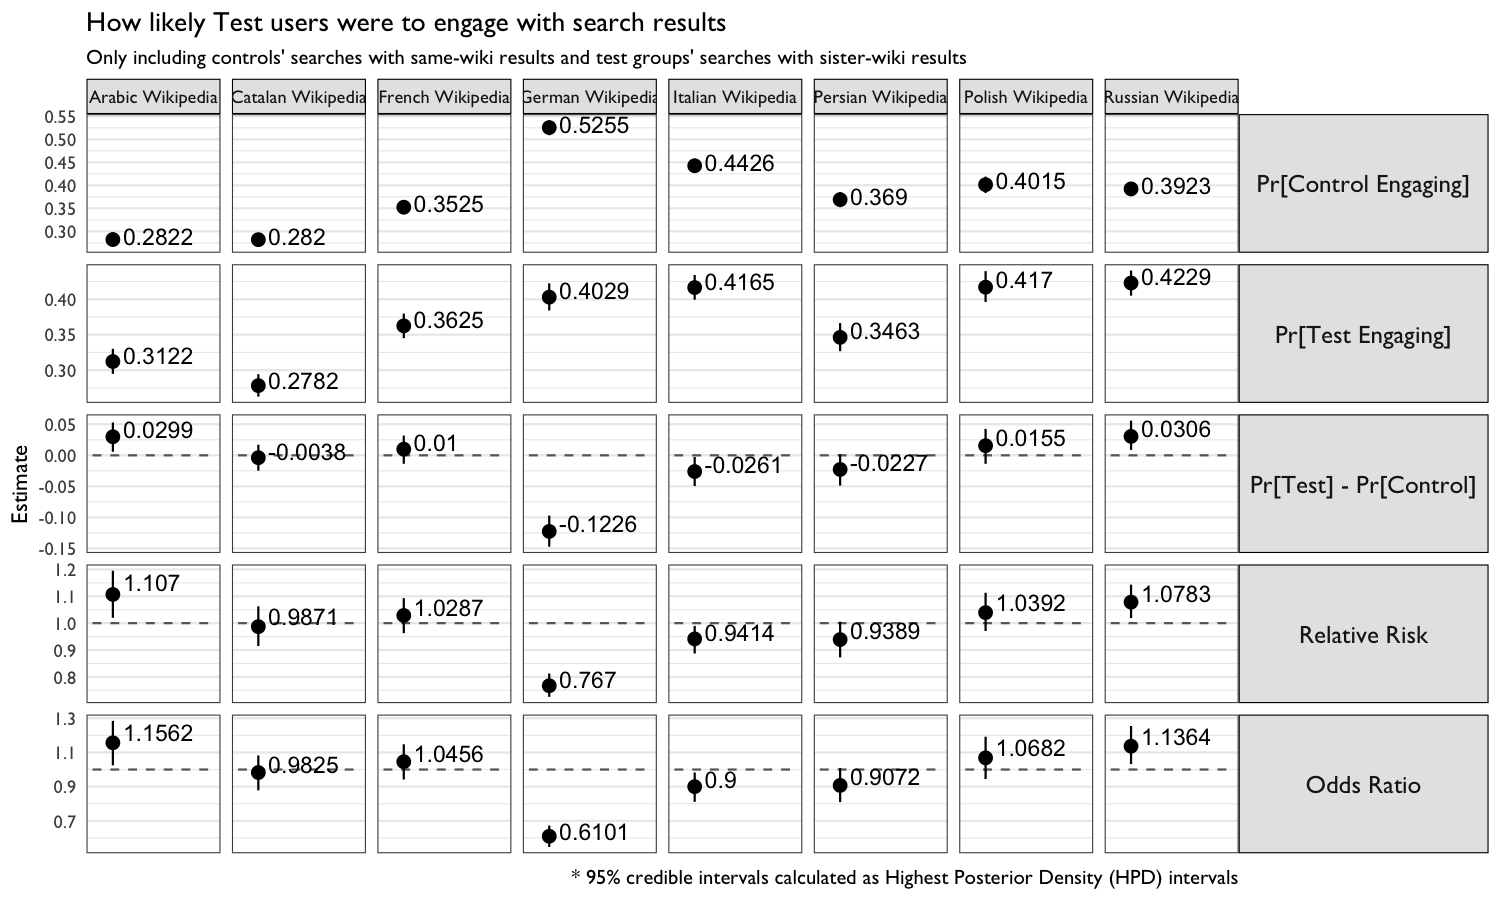
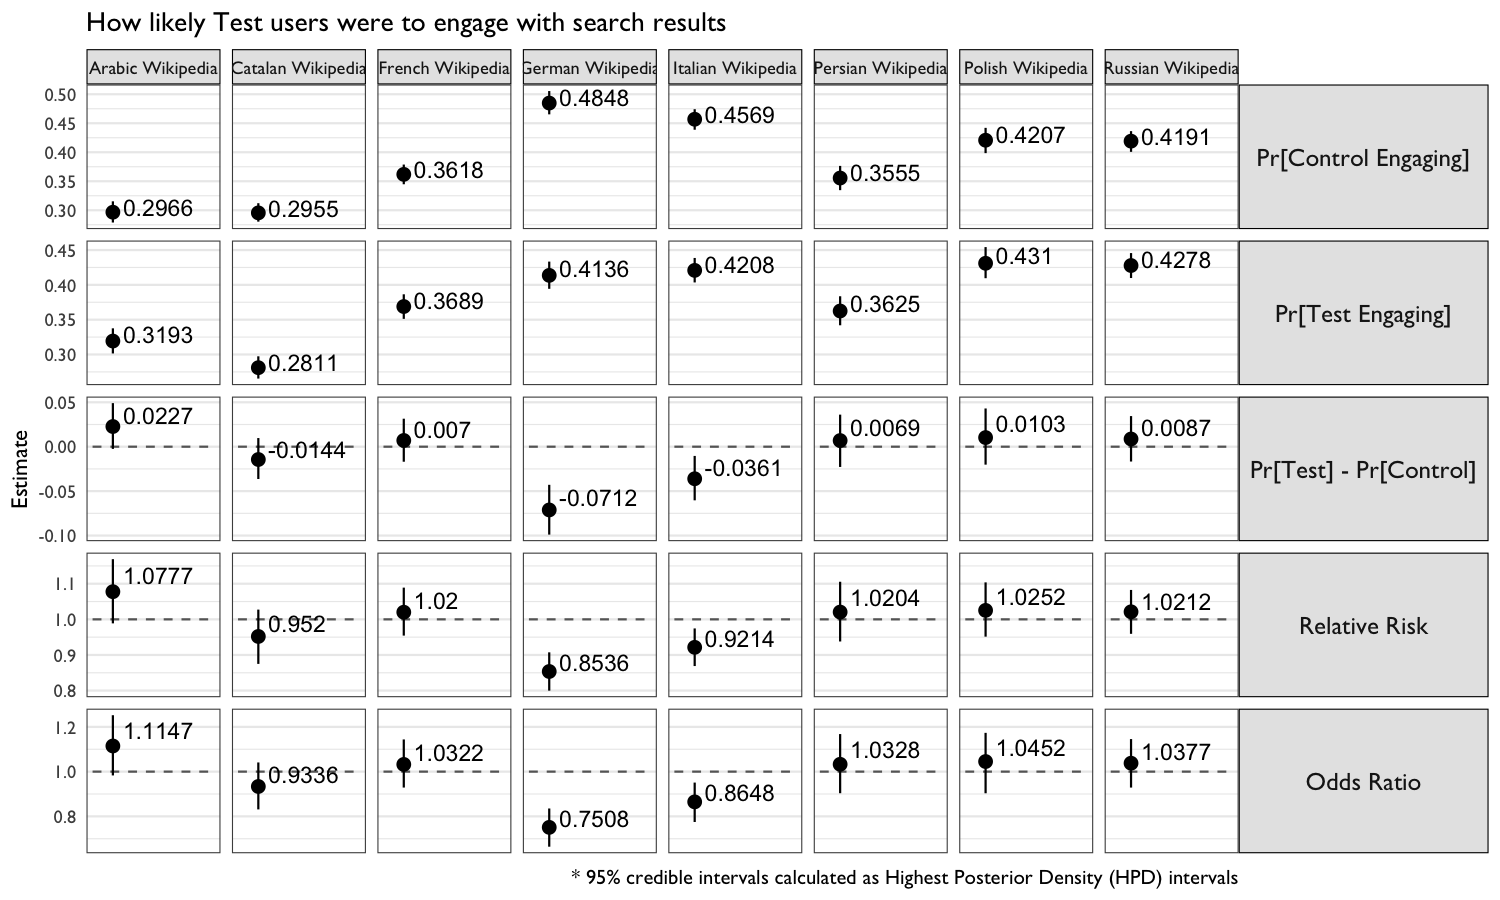
Fix hypothesis 1

diff --git a/docs/index.html b/docs/index.html
@@ -585,7 +585,7 @@ x &lt;-<span class="st"> </span><span class="kw">plot</span>(visitor_flow, <span
 </div>
 <div id="analysis" class="section level2">
 <h2>Analysis</h2>
-<p>We employed the <em>binom</em> <span class="citation">(Dorai-Raj <a href="#ref-R-binom">2014</a>)</span>, <em>LearnBayes</em> <span class="citation">(Albert <a href="#ref-R-learnbayes">2014</a>)</span>, <em>conting</em> <span class="citation">(Overstall <a href="#ref-R-conting">2016</a>)</span>, and internally-developed <em>BCDA</em> <span class="citation">(Popov, n.d.)</span> packages for Bayesian statistical analysis and confidence intervals in Figures 9, 10, and 8.</p>
+<p>We employed the <em>binom</em> <span class="citation">(Dorai-Raj <a href="#ref-R-binom">2014</a>)</span>, <em>LearnBayes</em> <span class="citation">(Albert <a href="#ref-R-learnbayes">2014</a>)</span>, <em>conting</em> <span class="citation">(Overstall <a href="#ref-R-conting">2016</a>)</span>, and internally-developed <em>BCDA</em> <span class="citation">(Popov, n.d.)</span> packages for Bayesian statistical analysis and confidence intervals in Figures 8, 9, and 7.</p>
 </div>
 </div>
 <div id="results" class="section level1">
@@ -830,7 +830,7 @@ All 2 groups
 </table>
 <div id="zero-results-rate-zrr" class="section level2">
 <h2>Zero Results Rate (ZRR)</h2>
-<p>The zero results rate (ZRR) – proportion of searches yielding zero results – is one of Discovery’s Search Team’s key performance indicators (KPIs), and we are always interested in lowering that number (but not at the expense of results’ relevance). While we were primarily interested in searchers’ engagement with the search result for this test, we included this section as a consistency check – that the zero results rate is lower when a cross-wiki search is performed (see Figure 9).</p>
+<p>The zero results rate (ZRR) – proportion of searches yielding zero results – is one of Discovery’s Search Team’s key performance indicators (KPIs), and we are always interested in lowering that number (but not at the expense of results’ relevance). While we were primarily interested in searchers’ engagement with the search result for this test, we included this section as a consistency check – that the zero results rate is lower when a cross-wiki search is performed (see Figure 8).</p>
 <div class="sourceCode"><pre class="sourceCode r"><code class="sourceCode r">zrr &lt;-<span class="st"> </span>searches <span class="op">%&gt;%</span>
 <span class="st">  </span><span class="kw">group_by</span>(wiki, group, serp_id) <span class="op">%&gt;%</span>
 <span class="st">  </span><span class="kw">summarize</span>(
@@ -881,23 +881,13 @@ All 2 groups
 <div class="sourceCode"><pre class="sourceCode r"><code class="sourceCode r">searches_H1 &lt;-<span class="st"> </span>searches <span class="op">%&gt;%</span>
 <span class="st">  </span><span class="kw">group_by</span>(serp_id) <span class="op">%&gt;%</span>
 <span class="st">  </span><span class="kw">keep_where</span>(
-    (group <span class="op">==</span><span class="st"> &quot;Control&quot;</span> <span class="op">&amp;</span><span class="st"> `</span><span class="dt">cirrus log: some same-wiki results</span><span class="st">`</span>) <span class="op">|</span>
-<span class="st">      </span>(group <span class="op">==</span><span class="st"> &quot;Test&quot;</span> <span class="op">&amp;</span><span class="st"> `</span><span class="dt">cirrus log: some sister-wiki results</span><span class="st">`</span>)
-  ) <span class="op">%&gt;%</span>
-<span class="st">  </span><span class="kw">select</span>(serp_id) <span class="op">%&gt;%</span>
-<span class="st">  </span>dplyr<span class="op">::</span><span class="kw">left_join</span>(searches, <span class="dt">by =</span> <span class="st">&quot;serp_id&quot;</span>) <span class="op">%&gt;%</span>
-<span class="st">  </span><span class="kw">group_by</span>(wiki, group, serp_id) <span class="op">%&gt;%</span>
-<span class="st">  </span><span class="kw">summarize</span>(<span class="dt">clickthrough =</span> <span class="kw">any</span>(event <span class="op">!=</span><span class="st"> &quot;SERP&quot;</span>)) <span class="op">%&gt;%</span>
-<span class="st">  </span><span class="kw">summarize</span>(<span class="dt">searches =</span> <span class="kw">n</span>(), <span class="dt">clickthroughs =</span> <span class="kw">sum</span>(clickthrough)) <span class="op">%&gt;%</span>
-<span class="st">  </span><span class="kw">group_by</span>(wiki, group) <span class="op">%&gt;%</span>
-<span class="st">  </span>dplyr<span class="op">::</span><span class="kw">do</span>(binom<span class="op">::</span><span class="kw">binom.bayes</span>(.<span class="op">$</span>clickthroughs, .<span class="op">$</span>searches, <span class="dt">conf.level =</span> <span class="fl">0.95</span>))
-searches_H2 &lt;-<span class="st"> </span>searches <span class="op">%&gt;%</span>
-<span class="st">  </span><span class="kw">group_by</span>(serp_id) <span class="op">%&gt;%</span>
-<span class="st">  </span><span class="kw">keep_where</span>(
     <span class="st">`</span><span class="dt">cirrus log: some same-wiki results</span><span class="st">`</span> <span class="op">&amp;</span>
 <span class="st">      `</span><span class="dt">cirrus log: some sister-wiki results</span><span class="st">`</span>
   ) <span class="op">%&gt;%</span>
 <span class="st">  </span><span class="kw">select</span>(serp_id) <span class="op">%&gt;%</span>
+<span class="st">  </span>ungroup <span class="op">%&gt;%</span>
+<span class="st">  </span><span class="kw">arrange</span>(serp_id) <span class="op">%&gt;%</span>
+<span class="st">  </span>dplyr<span class="op">::</span><span class="kw">distinct</span>() <span class="op">%&gt;%</span>
 <span class="st">  </span>dplyr<span class="op">::</span><span class="kw">left_join</span>(searches, <span class="dt">by =</span> <span class="st">&quot;serp_id&quot;</span>) <span class="op">%&gt;%</span>
 <span class="st">  </span><span class="kw">group_by</span>(wiki, group, serp_id) <span class="op">%&gt;%</span>
 <span class="st">  </span><span class="kw">summarize</span>(<span class="dt">clickthrough =</span> <span class="kw">any</span>(event <span class="op">!=</span><span class="st"> &quot;SERP&quot;</span>)) <span class="op">%&gt;%</span>
@@ -905,27 +895,20 @@ searches_H2 &lt;-<span class="st"> </span>searches <span class="op">%&gt;%</span
 <span class="st">  </span><span class="kw">group_by</span>(wiki, group) <span class="op">%&gt;%</span>
 <span class="st">  </span>dplyr<span class="op">::</span><span class="kw">do</span>(binom<span class="op">::</span><span class="kw">binom.bayes</span>(.<span class="op">$</span>clickthroughs, .<span class="op">$</span>searches, <span class="dt">conf.level =</span> <span class="fl">0.95</span>))</code></pre></div>
 <div class="figure">
-<img src="index_files/figure-html/hypothesis_1_plot-1.png" alt="**Figure 6**: Clickthrough rates of experimental groups, split by wiki. In the &lt;span class=&quot;test-group-1&quot;&gt;Control&lt;/span&gt; group, only searches that yielded some same-wiki results were considered. In the &lt;span class=&quot;test-group-2&quot;&gt;Test&lt;/span&gt; group, only searches that yielded some sister-wiki results were considered." width="\textwidth" />
+<img src="index_files/figure-html/hypothesis_1_plot-1.png" alt="**Figure 6**: Clickthrough rates of experimental groups, split by wiki. In the &lt;span class=&quot;test-group-1&quot;&gt;Control&lt;/span&gt; group..." width="\textwidth" />
 <p class="caption">
-<strong>Figure 6</strong>: Clickthrough rates of experimental groups, split by wiki. In the <span class="test-group-1">Control</span> group, only searches that yielded some same-wiki results were considered. In the <span class="test-group-2">Test</span> group, only searches that yielded some sister-wiki results were considered.
-</p>
-</div>
-<div class="figure">
-<img src="index_files/figure-html/hypothesis_2_plot-1.png" alt="**Figure 7**: Clickthrough rates of experimental groups, split by wiki. In the &lt;span class=&quot;test-group-1&quot;&gt;Control&lt;/span&gt; group, only searches that yielded some same-wiki results were considered. In the &lt;span class=&quot;test-group-2&quot;&gt;Test&lt;/span&gt; group..." width="\textwidth" />
-<p class="caption">
-<strong>Figure 7</strong>: Clickthrough rates of experimental groups, split by wiki. In the <span class="test-group-1">Control</span> group, only searches that yielded some same-wiki results were considered. In the <span class="test-group-2">Test</span> group…
+<strong>Figure 6</strong>: Clickthrough rates of experimental groups, split by wiki. In the <span class="test-group-1">Control</span> group…
 </p>
 </div>
 <div class="sourceCode"><pre class="sourceCode r"><code class="sourceCode r">bcda_H1 &lt;-<span class="st"> </span>searches_H1 <span class="op">%&gt;%</span>
-<span class="st">  </span><span class="kw">keep_where</span>(group <span class="op">%in%</span><span class="st"> </span><span class="kw">c</span>(<span class="st">&quot;Control&quot;</span>, <span class="st">&quot;Test&quot;</span>)) <span class="op">%&gt;%</span>
 <span class="st">  </span><span class="kw">arrange</span>(wiki, <span class="kw">desc</span>(group)) <span class="op">%&gt;%</span>
 <span class="st">  </span><span class="kw">group_by</span>(wiki) <span class="op">%&gt;%</span>
 <span class="st">  </span>dplyr<span class="op">::</span><span class="kw">do</span>(BCDA<span class="op">::</span><span class="kw">tidy</span>(BCDA<span class="op">::</span><span class="kw">beta_binom</span>(.<span class="op">$</span>x, .<span class="op">$</span>n), <span class="dt">interval_type =</span> <span class="st">&quot;HPD&quot;</span>)) <span class="op">%&gt;%</span>
 <span class="st">  </span>ungroup</code></pre></div>
 <div class="figure">
-<img src="index_files/figure-html/bcda_H1_plot-1.png" alt="**Figure 8**: Comparison of the &lt;span class=&quot;test-group-1&quot;&gt;Control&lt;/span&gt; group with the &lt;span class=&quot;test-group-2&quot;&gt;Test&lt;/span&gt; group." width="\textwidth" />
+<img src="index_files/figure-html/bcda_H1_plot-1.png" alt="**Figure 7**: Comparison of the &lt;span class=&quot;test-group-1&quot;&gt;Control&lt;/span&gt; group with the &lt;span class=&quot;test-group-2&quot;&gt;Test&lt;/span&gt; group." width="\textwidth" />
 <p class="caption">
-<strong>Figure 8</strong>: Comparison of the <span class="test-group-1">Control</span> group with the <span class="test-group-2">Test</span> group.
+<strong>Figure 7</strong>: Comparison of the <span class="test-group-1">Control</span> group with the <span class="test-group-2">Test</span> group.
 </p>
 </div>
 <?xml version="1.0" encoding="UTF-8"?>
@@ -952,10 +935,10 @@ Relative Risk
 Arabic Wikipedia
 </td>
 <td style="text-align:left;">
-1.107
+1.078
 </td>
 <td style="text-align:left;">
-(1.020, 1.195)
+(0.989, 1.169)
 </td>
 </tr>
 <tr>
@@ -963,10 +946,10 @@ Arabic Wikipedia
 Catalan Wikipedia
 </td>
 <td style="text-align:left;">
-0.987
+0.952
 </td>
 <td style="text-align:left;">
-(0.915, 1.063)
+(0.875, 1.027)
 </td>
 </tr>
 <tr>
@@ -974,10 +957,10 @@ Catalan Wikipedia
 French Wikipedia
 </td>
 <td style="text-align:left;">
-1.029
+1.020
 </td>
 <td style="text-align:left;">
-(0.963, 1.093)
+(0.954, 1.089)
 </td>
 </tr>
 <tr>
@@ -985,10 +968,10 @@ French Wikipedia
 German Wikipedia
 </td>
 <td style="text-align:left;">
-0.767
+0.854
 </td>
 <td style="text-align:left;">
-(0.726, 0.812)
+(0.800, 0.907)
 </td>
 </tr>
 <tr>
@@ -996,10 +979,10 @@ German Wikipedia
 Italian Wikipedia
 </td>
 <td style="text-align:left;">
-0.941
+0.921
 </td>
 <td style="text-align:left;">
-(0.887, 0.990)
+(0.869, 0.974)
 </td>
 </tr>
 <tr>
@@ -1007,10 +990,10 @@ Italian Wikipedia
 Persian Wikipedia
 </td>
 <td style="text-align:left;">
-0.939
+1.020
 </td>
 <td style="text-align:left;">
-(0.872, 1.005)
+(0.938, 1.106)
 </td>
 </tr>
 <tr>
@@ -1018,10 +1001,10 @@ Persian Wikipedia
 Polish Wikipedia
 </td>
 <td style="text-align:left;">
-1.039
+1.025
 </td>
 <td style="text-align:left;">
-(0.971, 1.113)
+(0.951, 1.104)
 </td>
 </tr>
 <tr>
@@ -1029,16 +1012,16 @@ Polish Wikipedia
 Russian Wikipedia
 </td>
 <td style="text-align:left;">
-1.078
+1.021
 </td>
 <td style="text-align:left;">
-(1.019, 1.143)
+(0.959, 1.083)
 </td>
 </tr>
 </tbody>
 </table>
-<!-- In Figures 6 and 8, we see that the clickthrough rate was higher in <span class="test-group-2">Test</span> and <span class="test-group-3">Test (Recall)</span> than in <span class="test-group-1">Control</span> on almost all of the four wikis. The only exception being the clickthrough rates of users in the Polish Wikipedia <span class="test-group-2">Test</span> (41.7%) and Italian <span class="test-group-3">Test (Recall)</span> () groups.-->
-<p>Table 4 shows the <a href="https://en.wikipedia.org/wiki/Relative_risk">relative risk</a> – how much more likely each respective test group is to engage with the search results (same-wiki or cross-wiki) than the <span class="test-group-1">Control</span> group. For example, on Catalan Wikipedia, users in the <span class="test-group-2">Test</span> are 0.987 times more likely to click on a result than users in the <span class="test-group-1">Control</span> group. While most of the estimates are greater than 1 (suggesting more relevant results), the 95% <a href="https://en.wikipedia.org/wiki/Credible_interval">credible intervals</a> contain 1, meaning we do not have sufficient evidence to draw definitive conclusions.</p>
+<p>In Figures 6 and 7, we see that engagement was higher in <span class="test-group-2">Test</span> than in <span class="test-group-1">Control</span> on 4 of the 8 wikis (Arabic, French, Polish, and Russian Wikipedias) but lower on the other 4 (Italian, Persian, barely Catalan, and most drastically German Wikipedias).</p>
+<p>Table 4 shows the <a href="https://en.wikipedia.org/wiki/Relative_risk">relative risk</a> – how much more likely each respective test group is to engage with the search results (same-wiki or cross-wiki) than the <span class="test-group-1">Control</span> group. For example, on Catalan Wikipedia, users in the <span class="test-group-2">Test</span> are 0.952 times more likely to click on a result than users in the <span class="test-group-1">Control</span> group. While most of the estimates are greater than 1 (suggesting more relevant results), the 95% <a href="https://en.wikipedia.org/wiki/Credible_interval">credible intervals</a> contain 1, meaning we do not have sufficient evidence to draw definitive conclusions.</p>
 <div class="sourceCode"><pre class="sourceCode r"><code class="sourceCode r">indices_subset &lt;-<span class="st"> </span>indices <span class="op">%&gt;%</span>
 <span class="st">  </span><span class="kw">keep_where</span>(<span class="op">!</span>(project <span class="op">%in%</span><span class="st"> </span><span class="kw">c</span>(<span class="st">&quot;commons&quot;</span>, <span class="st">&quot;wikipedia&quot;</span>))) <span class="op">%&gt;%</span>
 <span class="st">  </span><span class="kw">group_by</span>(cirrus_id) <span class="op">%&gt;%</span>
